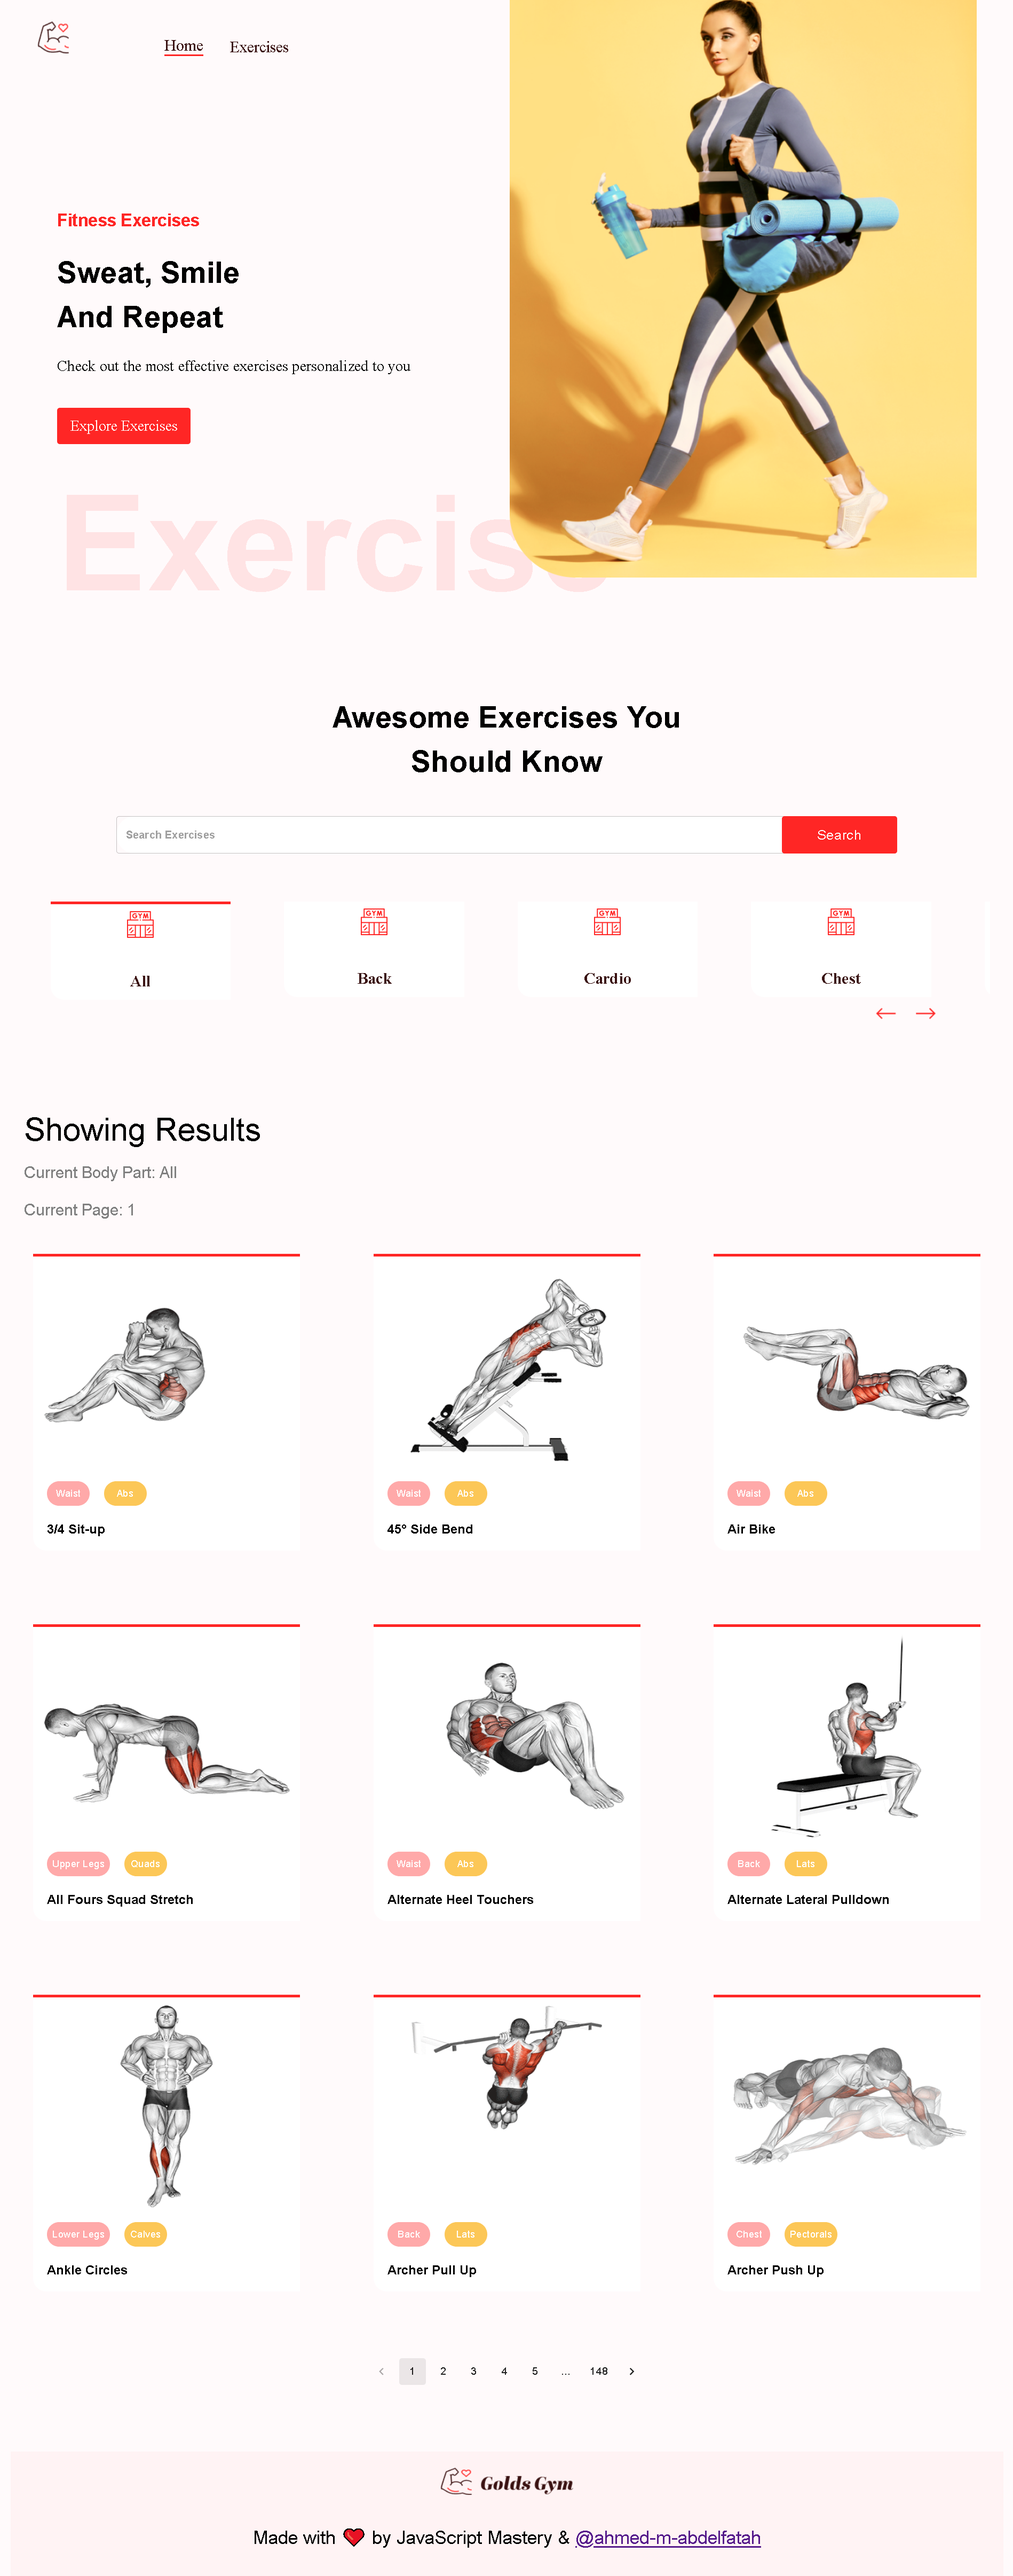
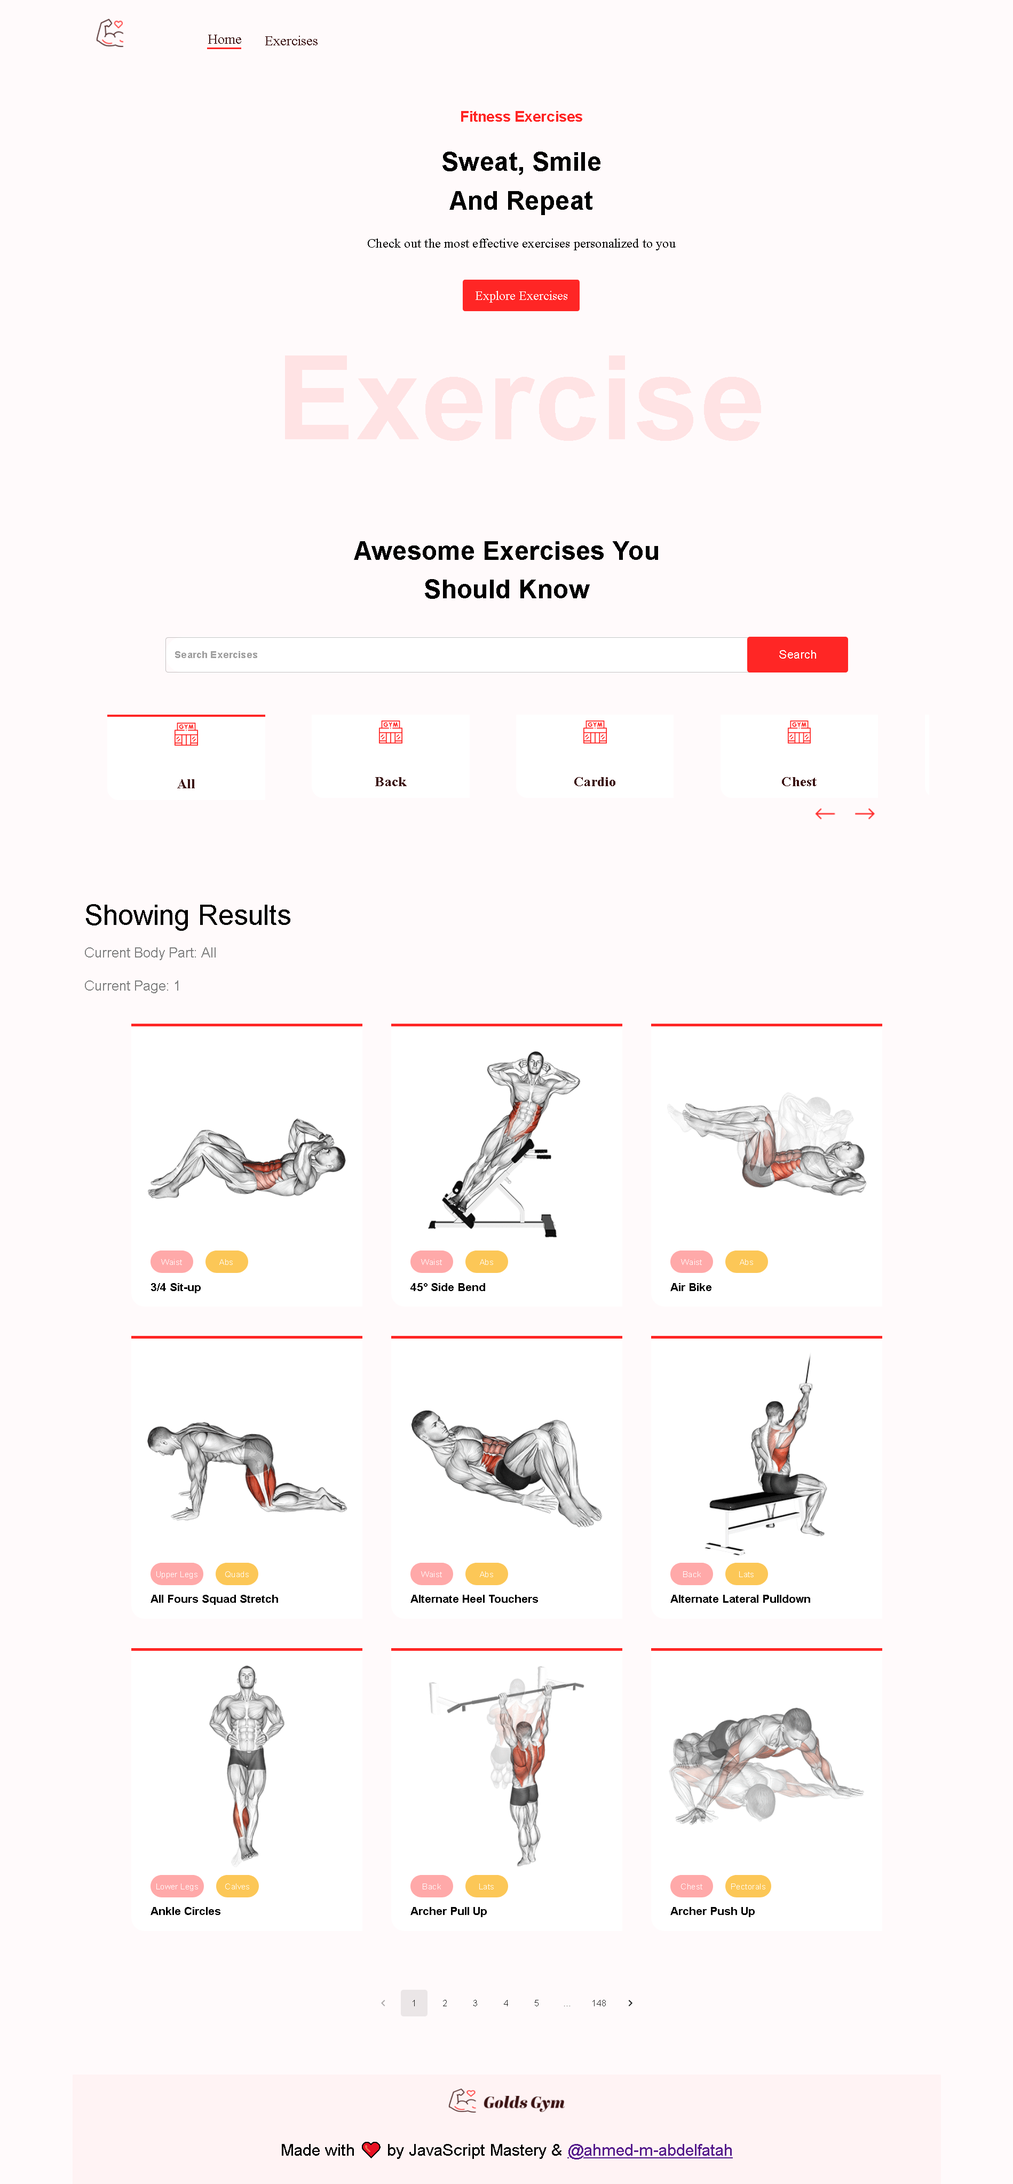
done edit after some feedback

diff --git a/src/components/HeroBanner.js b/src/components/HeroBanner.js
@@ -1,9 +1,13 @@
 import React from 'react';
-import { Box, Stack, Typography } from '@mui/material';
+import { Stack, Typography } from '@mui/material';
 
 const HeroBanner = () => {
   return (
-    <Box sx={{ mt: { lg: '13.25rem', xs: '4.375rem' }, ml: { sm: '3.125rem' } }} position='relative' p='1.25rem'>
+    <Stack
+      sx={{ mt: { lg: '5rem', xs: '3rem' }, ml: { sm: '3.125rem' } }}
+      textAlign='center'
+      position='relative'
+      p='1.25rem'>
       <Typography variant='h1' color='#FF2625' fontWeight='600' fontSize='1.625rem'>
         Fitness Exercises
       </Typography>
@@ -18,7 +22,7 @@ const HeroBanner = () => {
         <a
           href='#exercises'
           style={{
-            marginTop: '2.8125rem',
+            margin: '2.8125rem auto 0',
             textDecoration: 'none',
             width: '12.5rem',
             textAlign: 'center',
@@ -38,7 +42,7 @@ const HeroBanner = () => {
         sx={{ opacity: '0.1', display: { lg: 'block', xs: 'none' }, fontSize: '12.5rem' }}>
         Exercise
       </Typography>
-    </Box>
+    </Stack>
   );
 };
 

diff --git a/src/App.css b/src/App.css
@@ -83,8 +83,6 @@ body {
 }
 
 .exercise-card {
-  width: 400px;
-  height: 445px;
   background: #fff;
   border-top: 4px solid #FF2625;
   border-bottom-left-radius: 20px;
@@ -92,18 +90,16 @@ body {
   display: flex;
   justify-content: space-between;
   flex-direction: column;
-  padding-bottom: 10px;
-  transform: scale(1, 1);
-  transition: 0.3s all ease-in-out;
+  padding: 10px;
 }
 
 .exercise-card img {
   height: 326px;
+  width: 326px;
 }
 
 .bodyPart-card {
   user-select: none;
-  /* transform: scale(1, 1); */
 }
 
 .search-btn:hover {
@@ -141,19 +137,9 @@ body {
     display: none;
   }
 
-  .exercise-card {
-    width: 320px;
-  }
-
   .exercise-video {
     width: 320px;
     height: 300px;
   }
 
-}
-
-@media screen and (max-width:400px) {
-  .exercise-card {
-    width: 280px;
-  }
 }

diff --git a/src/components/Exercises.js b/src/components/Exercises.js
@@ -62,7 +62,7 @@ const Exercises = ({ bodyPart, exercises, setExercises, currentPage, setCurrentP
           <span style={{ color: 'gray', fontSize: '1.5rem' }}>current page: {currentPage}</span>
         </Typography>
       )}
-      <Stack direction='row' sx={{ gap: { lg: '6.875rem', xs: '3.125rem' } }} flexWrap='wrap' justifyContent='center'>
+      <Stack direction='row' sx={{ gap: '3.125rem' }} flexWrap='wrap' justifyContent='center'>
         {currentExercises.map((exercise, index) => (
           <ExerciseCard key={index} exercise={exercise} currentPage={currentPage} />
         ))}

diff --git a/src/components/SearchExercises.js b/src/components/SearchExercises.js
@@ -14,7 +14,6 @@ const SearchExercises = ({ exercisesRef, bodyPart, setBodyPart, setExercises, se
 
   useEffect(() => {
     const fetchExercisesData = async () => {
-      console.log('~ bodyParts.length', bodyParts.length);
       if (bodyParts.length) return;
 
       const {
